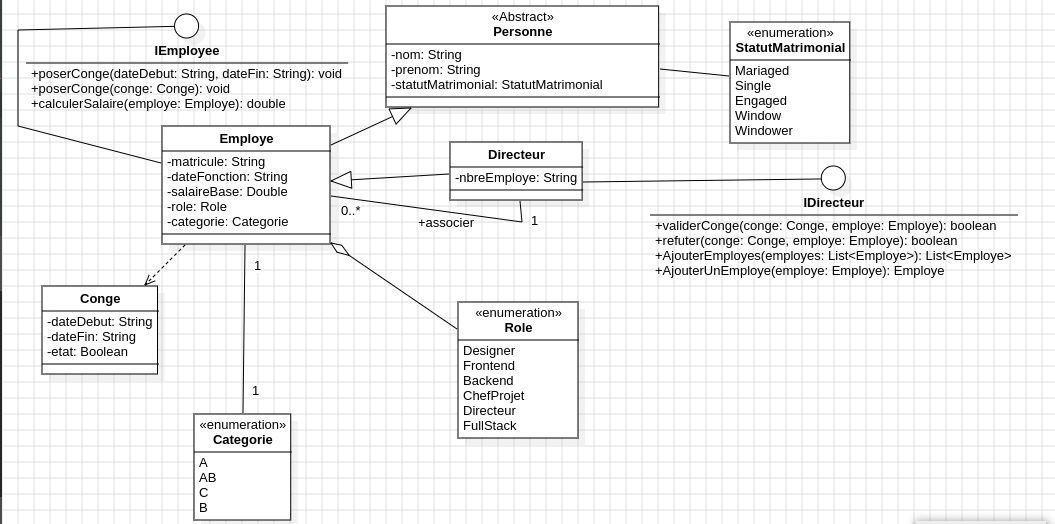
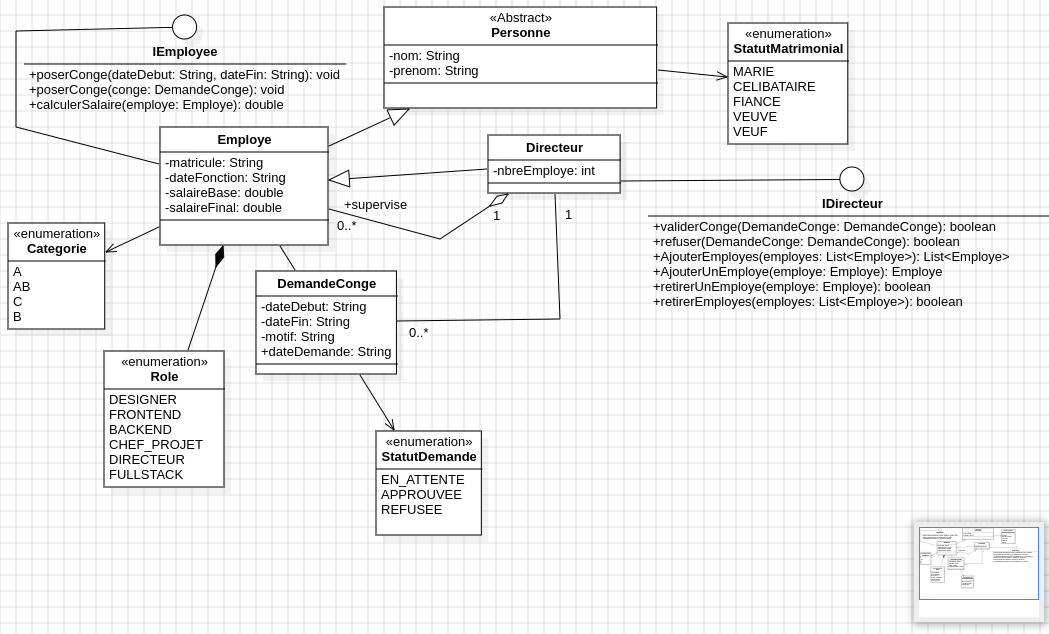
readme file updated

diff --git a/readme.md b/readme.md
@@ -1,15 +1,16 @@
 # Application de gestion des employés d'une entreprise
 - Un employé est caractérisé par un nom, un prénom et son statut matrimoniale
 - Un directeur est caractérisé par un nom, un prénom et un nombre d'employé
-- Un employé peut poser des congés. Il fournit une date de début et une date de fin
+- Un employé peut poser des congés (demander un congé). Il fournit une date de début et une date de fin ainsi que son motif.
 - Sa demande est soumise au directeur. Le directeur peut valider la demande de congé de l'employé
 - Un directeur peut aussi poser des congés.Sa demande de congé est automatiquement validée
-- Un directeur peut aussi refuter la demande de congé d'un employé
+- Un directeur peut aussi refuser la demande de congé d'un employé
+- - Un directeur peut voir la liste des employés et de ses employés
 - Tout employé doit avoir un matricule, une date où il commencer à travailler dans l'entreprise, un role ainsi qu'un salaire
 - Chaque employé à une categorie et son salaire est calculé selon sa catégorie
-- Les employés qui ont une longevité de plus de 3 ans sont de categorie B et à leurs salaires on ajoute 8%
-- Les employés qui ont une longevité de plus de 1 an mais moins de 3 ans sont de categorie AB et à leurs salaires on ajoute 2%
-- Les employés qui ont une longevité de plus de 6 ans sont de categorie C et à leurs salaires on ajoute 15%
+- Les employés qui ont une ancienneté de plus de 3 ans sont de categorie B et à leurs salaires on ajoute 8%
+- Les employés qui ont une ancienneté de plus de 1 an mais moins de 3 ans sont de categorie AB et à leurs salaires on ajoute 2%
+- Les employés qui ont une ancienneté de plus de 6 ans sont de categorie C et à leurs salaires on ajoute 15%
 - A correspond à la catégorie d'un nouvel employé
 - le salaire de base d'un directeur est est de 1.2M, s'il est marié on lui ajoute une prime qui est de 270.700 fcfa
 - la devise utilisé est le fcfa
@@ -21,12 +22,13 @@
 - Un directeur est un employé qui a un ensemble d'employé qu'il gere
 - salaire = salaire de base + prime de longevité
 - le Statut matrimonial peut etre : Mariaged -> marié, Engaged -> fiancé, Single -> Celibataire, Widow -> veuve, Widower-> veuf
-
+- La demande de congé d'un employé peut avoir comme statut : EN_ATTENTE, APPROUVEE, REJETEE.
 ## Ce que nous avions pu faire pour l'instant !
 
 1. Factoriser les classes
 2. Créer les interfaces
-3. Les implementer
+3. Ecrire certaines methodes
+4. Les implementer
 
 ### Use Case diagram
 ![use case diagram](./img/useCase.png)
